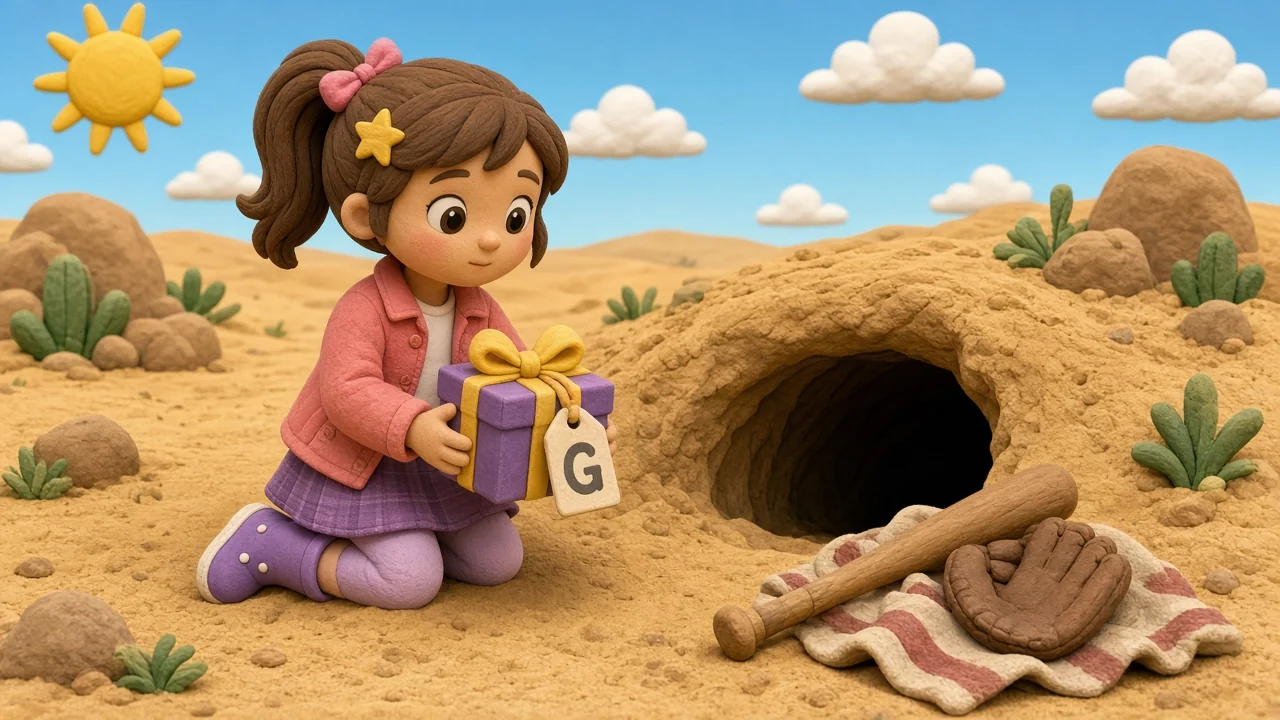
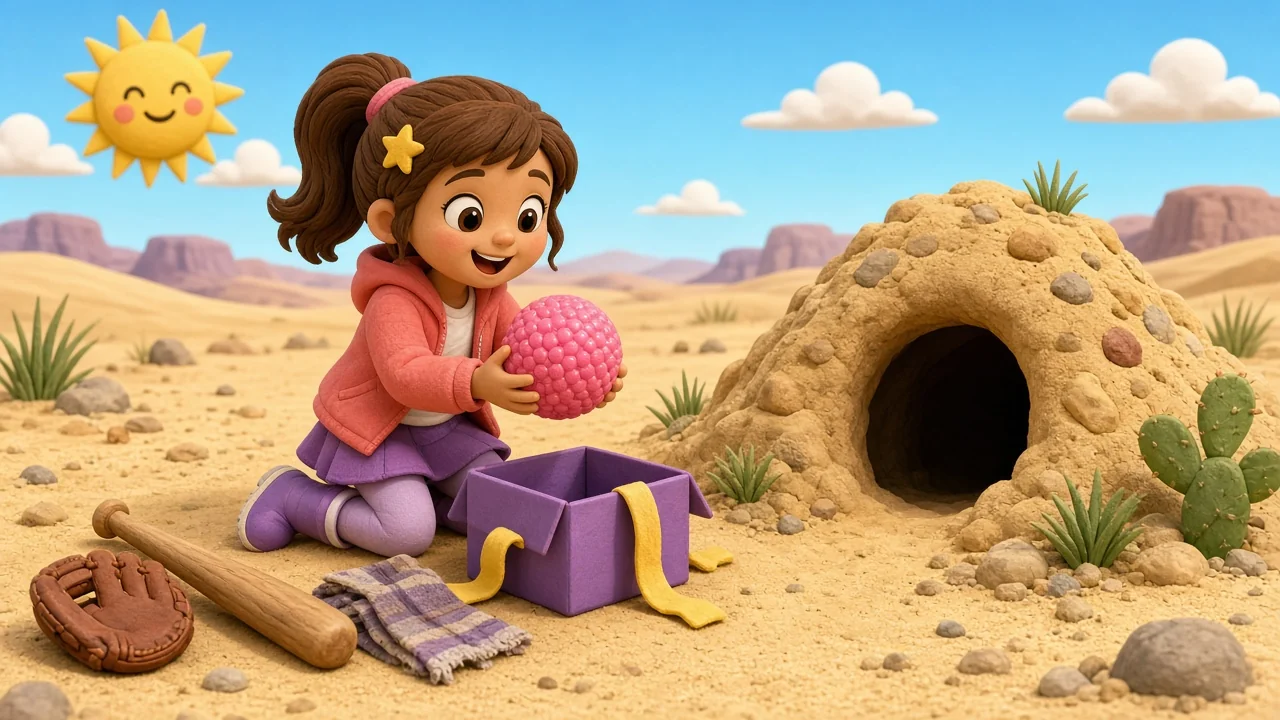
v0.6.56: Story 4 merge P05/P06 into chase page, redraw P04/P06 (25 pages)

diff --git a/stories/the-big-tug.md b/stories/the-big-tug.md
@@ -2,8 +2,8 @@
 
 > 场景：晴朗白天的沙漠（沙丘、仙人掌、绿洲、沙蜥洞口杂物堆）  
 > 角色：Mia（主角，服装固定，衣服始终干净）、Dad、Mom、宠物母鸡 Hen（唯一的鸡）；胖嘟嘟橘色大沙蜥（凶萌）及小沙蜥宝宝；Sis、Ben 不出场  
-> 结构：出游 → Hen 睡在包上 → 沙蜥卷走水和包（连 Hen）→ 叽叽声伏笔 → 爸爸伤腿、妈妈留下 → 米娅独自勇敢走向洞口 → 发现杂物堆（礼物盒/球棒/手套/旧布）→ 口香糖粘牙 → 球棒击沙球、手套接水瓶 → 旧布绳拔河，爸妈来帮 → 赢了但沙蜥难过 → 小沙蜥口渴 → 分水成朋友 → 驮全家出沙漠  
-> 篇幅：26 页 · 每页英文 ≤ 11 词、≤ 50 字符 · 一般现在时 · 画面不写字（礼物标签只印大字母 G）  
+> 结构：出游 → Hen 睡在包上 → 沙蜥卷走水和包（连 Hen）→ 一家人追赶 → 爸爸伤腿、妈妈留下 → 米娅独自勇敢走向洞口 → 发现杂物堆（礼物盒/球棒/手套/旧布）→ 口香糖粘牙 → 球棒击沙球、手套接水瓶 → 旧布绳拔河，爸妈来帮 → 赢了但沙蜥难过 → 小沙蜥口渴 → 分水成朋友 → 驮全家出沙漠  
+> 篇幅：25 页 · 每页英文 ≤ 11 词、≤ 50 字符 · 一般现在时 · 画面不写字（礼物标签只印大字母 G）  
 
 ---
 
@@ -40,22 +40,14 @@
 ---
 
 ### P05
-正文: "My **pet** **hen**!" Hen is on the bags. Gone!（“我的宠物母鸡！”Hen 还在包上，被带走了！）
-主练句式: ___ is on the ___.
+正文: "My **pet** **hen**!" Mia, Mom and Dad run after it.（"我的宠物母鸡！"米娅和爸爸妈妈追了上去。）
+主练句式: My ___ ___!
 辅词: pet（第4章 第1课「六只母鸡会跳」）；hen（第4章 第1课「六只母鸡会跳」）
-知识点: Hen 被一起带走；危机
+知识点: 沙蜥背着包和 Hen 跑走，一家人追赶
 
 ---
 
 ### P06
-正文: It dives into its hole. Peep, peep! What is that?（它钻回洞里。叽叽、叽叽！那是什么声音？）
-主练句式: What is that?
-辅词: —
-知识点: 拟声 Peep, peep!；伏笔：洞里的小沙蜥
-
----
-
-### P07
 正文: **Dad** runs and slips. Ouch! His **leg** hurts.（爸爸跑过去，滑了一跤。哎哟！他的腿受伤了。）
 主练句式: His ___ hurts.
 辅词: dad（第4章 第4课「大胡萝卜」）；leg（第4章 第1课「六只母鸡会跳」）
@@ -63,7 +55,7 @@
 
 ---
 
-### P08
+### P07
 正文: **Mom** wraps his **leg**. **Mom** stays with **Dad**.（妈妈包好爸爸的腿，留下来陪着他。）
 主练句式: ___ stays with ___.
 辅词: mom（第4章 第4课「大胡萝卜」）；leg（第4章 第1课「六只母鸡会跳」）；dad（第4章 第4课「大胡萝卜」）
@@ -71,7 +63,7 @@
 
 ---
 
-### P09
+### P08
 正文: "I can **help**!" Mia follows the tracks.（“我能帮忙！”米娅顺着脚印出发。）
 主练句式: I can help!
 辅词: —
@@ -79,7 +71,7 @@
 
 ---
 
-### P10
+### P09
 正文: Step, step. Mia is brave. Her heart goes thump!（一步，一步。米娅很勇敢，心怦怦跳！）
 主练句式: Mia is ___.
 辅词: —
@@ -87,7 +79,7 @@
 
 ---
 
-### P11
+### P10
 正文: A pile by its den! A **bat**, a **mitt**, a **rag**!（洞口有一大堆东西！球棒、手套、旧布！）
 主练句式: A ___, a ___, a ___!
 辅词: bat（第4章 第3课「大力一击」）；mitt（第4章 第3课「大力一击」）；rag（第4章 第2课「字母 G」）
@@ -95,7 +87,7 @@
 
 ---
 
-### P12
+### P11
 正文: A **gift** box with a **tag**. The **tag** says G.（一个挂着标签的礼物盒。标签上写着 G。）
 主练句式: A ___ with a ___.
 辅词: gift（第4章 第2课「字母 G」）；tag（第4章 第2课「字母 G」）
@@ -103,7 +95,7 @@
 
 ---
 
-### P13
+### P12
 正文: Mia opens the **gift**. Big pink **gum**!（米娅打开礼物。一大块粉色口香糖！）
 主练句式: Mia opens the ___.
 辅词: gift（第4章 第2课「字母 G」）；gum（第4章 第2课「字母 G」）
@@ -111,7 +103,7 @@
 
 ---
 
-### P14
+### P13
 正文: Rumble! The lizard pops out. Its tongue zips!（轰隆隆！沙蜥冒出来了，舌头嗖地伸出来！）
 主练句式: The ___ pops out.
 辅词: lizard（看图词）
@@ -119,7 +111,7 @@
 
 ---
 
-### P15
+### P14
 正文: Mia tosses the **gum**. A **hit**! Its teeth stick!（米娅把口香糖扔过去。正中！它的牙被粘住了！）
 主练句式: Mia tosses the ___.
 辅词: gum（第4章 第2课「字母 G」）；hit（第4章 第3课「大力一击」）
@@ -127,7 +119,7 @@
 
 ---
 
-### P16
+### P15
 正文: The lizard kicks sand balls at Mia! Mia swings the **bat**. A big **hit**!（沙蜥把沙球踢向米娅！米娅挥棒，好一记大击球！）
 主练句式: A big ___!
 辅词: bat（第4章 第3课「大力一击」）；hit（第4章 第3课「大力一击」）；lizard（看图词）
@@ -135,7 +127,7 @@
 
 ---
 
-### P17
+### P16
 正文: Bonk! A bottle pops off the lizard's pile. Mia catches it in the **mitt**!（砰！一个水瓶从沙蜥的那堆东西上弹了起来。米娅用手套接住了！）
 主练句式: Mia catches it in the ___!
 辅词: mitt（第4章 第3课「大力一击」）；lizard（看图词）
@@ -143,7 +135,7 @@
 
 ---
 
-### P18
+### P17
 正文: The lizard hides Hen! Mia makes a **rag** rope.（沙蜥把 Hen 藏起来了！米娅用旧布拧成绳子。）
 主练句式: Mia makes a ___ rope.
 辅词: rag（第4章 第2课「字母 G」）；lizard（看图词）
@@ -151,7 +143,7 @@
 
 ---
 
-### P19
+### P18
 正文: Mia **tugs**. The lizard sits tight. Oh no!（米娅拉呀拉，沙蜥坐得稳稳的。哎呀！）
 主练句式: Mia ___s.
 辅词: tug（第4章 第4课「大胡萝卜」）；lizard（看图词）
@@ -159,7 +151,7 @@
 
 ---
 
-### P20
+### P19
 正文: "**Dad** can **help**!" **Dad** hops. **Mom** comes too!（“爸爸来帮忙！”爸爸单脚跳过来，妈妈也来了！）
 主练句式: Dad can help!
 辅词: dad（第4章 第4课「大胡萝卜」）；mom（第4章 第4课「大胡萝卜」）
@@ -167,7 +159,7 @@
 
 ---
 
-### P21
+### P20
 正文: "We **tug** and **tug**!" Pop! Out come bags and Hen!（“我们拉呀拉！”嘭！包和 Hen 都出来了！）
 主练句式: We tug and tug!
 辅词: tug（第4章 第4课「大胡萝卜」）
@@ -175,7 +167,7 @@
 
 ---
 
-### P22
+### P21
 正文: We **win**! But the lizard looks so sad.（我们赢了！可是沙蜥看起来好难过。）
 主练句式: We ___!
 辅词: win（第4章 第3课「大力一击」）；lizard（看图词）
@@ -183,15 +175,15 @@
 
 ---
 
-### P23
+### P22
 正文: Peep! A baby lizard in a sand **bed**. So thirsty!（叽！沙窝小床里有只小沙蜥，好渴呀！）
 主练句式: A baby ___ in a sand ___.
 辅词: bed（第4章 第1课「六只母鸡会跳」）；lizard（看图词）
-知识点: 回收 P06 伏笔：叽叽声来自小沙蜥
+知识点: 揭晓：沙蜥抢水是为了洞里口渴的小沙蜥
 
 ---
 
-### P24
+### P23
 正文: It wants water for its baby!（它想要水，是为了它的宝宝！）
 主练句式: It wants ___ for its ___.
 辅词: —
@@ -199,7 +191,7 @@
 
 ---
 
-### P25
+### P24
 正文: Mia gives **one** bottle, then **two**. Glug, glug!（米娅送出一瓶水，又送一瓶。咕嘟咕嘟！）
 主练句式: Mia gives one ___, then two.
 辅词: —
@@ -207,7 +199,7 @@
 
 ---
 
-### P26
+### P25
 正文: The lizard is a friend. Hop on! We all **win**!（沙蜥成了好朋友。跳上来吧！大家都赢啦！）
 主练句式: We all ___!
 辅词: win（第4章 第3课「大力一击」）；lizard（看图词）
@@ -219,10 +211,10 @@
 
 | 课 | 词 | 出现页 | 句式 | 出现页 |
 |---|---|---|---|---|
-| 第4章 第1课「六只母鸡会跳」L73–74 | hen · bed · pet · leg | hen P02, P05；bed P03, P23；pet P02, P05；leg P07, P08 | One ___, two ___s. | P25（one / two） |
-| 第4章 第2课「字母 G」L75–76 | gum · tag · gift · rag | gum P13, P15；tag P12；gift P12, P13；rag P11, P18 | A dog with a ___. | P12（A gift box with a tag） |
-| 第4章 第3课「大力一击」L77–78 | hit · bat · mitt · win | hit P15, P16；bat P11, P16；mitt P11, P17；win P22, P26 | A big ___! | P16 |
-| 第4章 第4课「大胡萝卜」L79–80 | dad · mom · sis · tug | dad P01, P07, P08, P20；mom P01, P08, P20；tug P19, P21；sis 不用 | Dad can help. / We tug and tug! | P20 / P21 |
+| 第4章 第1课「六只母鸡会跳」L73–74 | hen · bed · pet · leg | hen P02, P05；bed P03, P22；pet P02, P05；leg P06, P07 | One ___, two ___s. | P24（one / two） |
+| 第4章 第2课「字母 G」L75–76 | gum · tag · gift · rag | gum P12, P14；tag P11；gift P11, P12；rag P10, P17 | A dog with a ___. | P11（A gift box with a tag） |
+| 第4章 第3课「大力一击」L77–78 | hit · bat · mitt · win | hit P14, P15；bat P10, P15；mitt P10, P16；win P21, P25 | A big ___! | P15 |
+| 第4章 第4课「大胡萝卜」L79–80 | dad · mom · sis · tug | dad P01, P06, P07, P19；mom P01, P07, P19；tug P18, P20；sis 不用 | Dad can help. / We tug and tug! | P19 / P20 |
 
 ## 词表（15 个，按首次出现）
 mom · dad · hen · pet · bed · leg · bat · mitt · rag · gift · tag · gum · hit · tug · win
@@ -230,10 +222,10 @@ mom · dad · hen · pet · bed · leg · bat · mitt · rag · gift · tag · g
 另有看图词卡 1 个：lizard（沙蜥），不算课纲词。总结页会自动跳过前面故事已出过的词卡（本书为 mom）。
 
 ## 看图词（不在课纲里）
-lizard（有词卡，沙蜥，P04, P14, P16, P17, P18, P19, P22, P23, P26）· bottle · dunes · Hen（名字）
+lizard（有词卡，沙蜥，P04, P13, P15, P16, P17, P18, P21, P22, P25）· bottle · dunes · Hen（名字）
 
 ## 视觉词
-one（P25）· two（P25）· help（P09, P20）；字母 G：P12 礼物标签
+one（P24）· two（P24）· help（P08, P19）；字母 G：P11 礼物标签
 
 ## 句式总表（总结页用）
 - This is ___, my ___!

diff --git a/README.md b/README.md
@@ -100,7 +100,7 @@ node scripts/genEnTimings.mjs
 - 更新弹层：每 10 秒带 cache-bust 拉取 `versions.json`，若有比已安装版本号更新的组，齿轮关闭时在设置外弹出这些版本行，顶部一个 **Update**（写入已确认版本、清缓存、保留进度、硬刷新）。已是最新则不显示弹层
 - PWA：可安装到主屏幕（`standalone`）；预缓存阅读器壳 + 故事 JSON。页级英文 mp3、插图 webp 和 `timings.json` 走运行时 Cache First，不进预缓存。地址带内容哈希 `?v=`，文件改了就会拉新资源，不必清缓存。翻页时后台预取后两页的图和英文 mp3；故事打开后在空闲时低并发把本章资源写入缓存（省流量模式跳过）。`versions.json` 用 Network First，以免挡住更新检测
 
-进度按本故事写入 `localStorage`。每次有意义的发布请在 `app/public/versions.json` 顶部追加 `{ id, version, date, summary }`（新条目用英文）。当前版本 **0.6.55**。
+进度按本故事写入 `localStorage`。每次有意义的发布请在 `app/public/versions.json` 顶部追加 `{ id, version, date, summary }`（新条目用英文）。当前版本 **0.6.56**。
 
 ## 安装到主屏幕（PWA）
 
